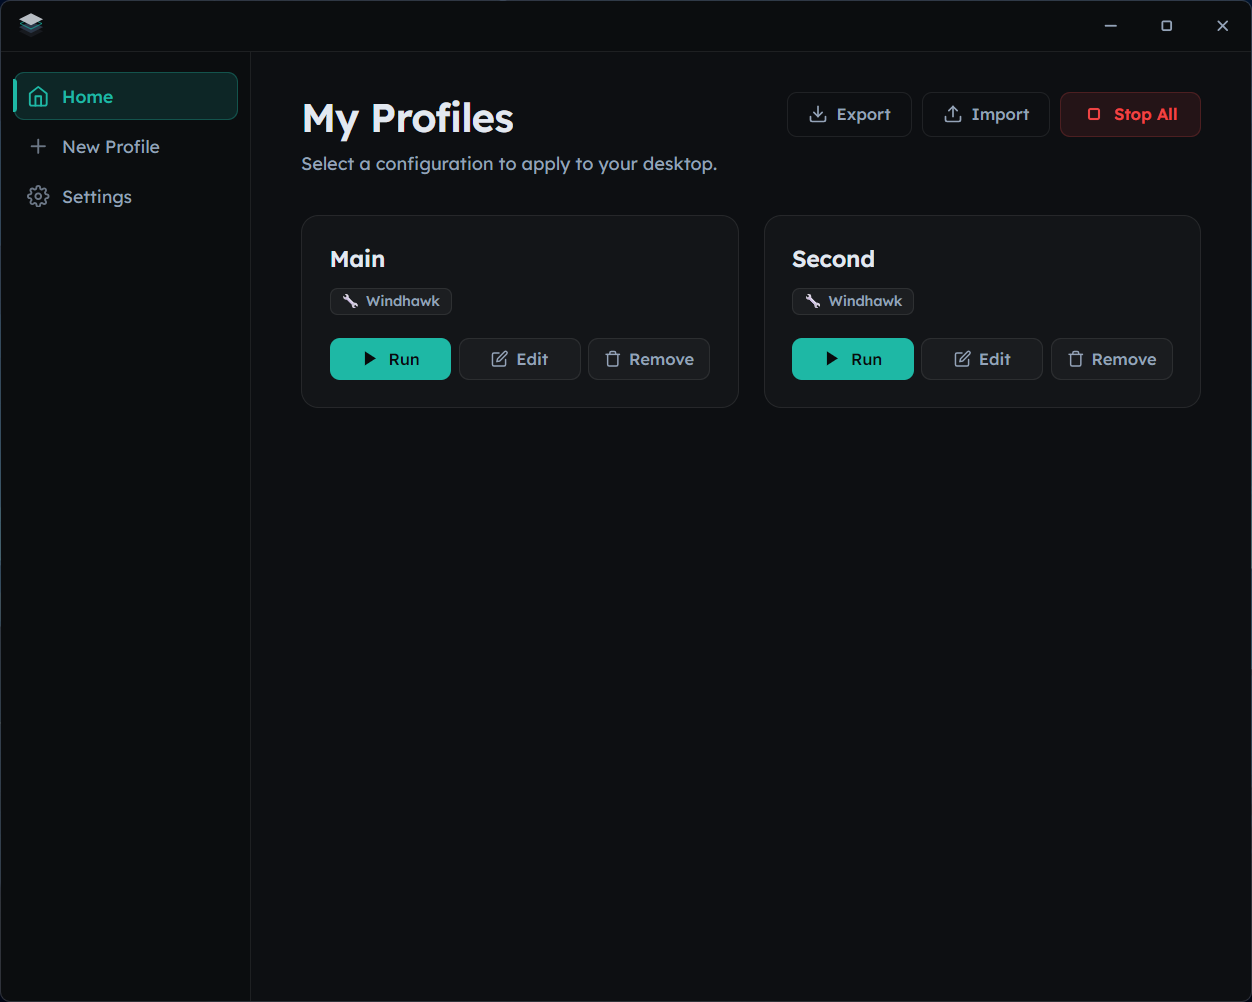
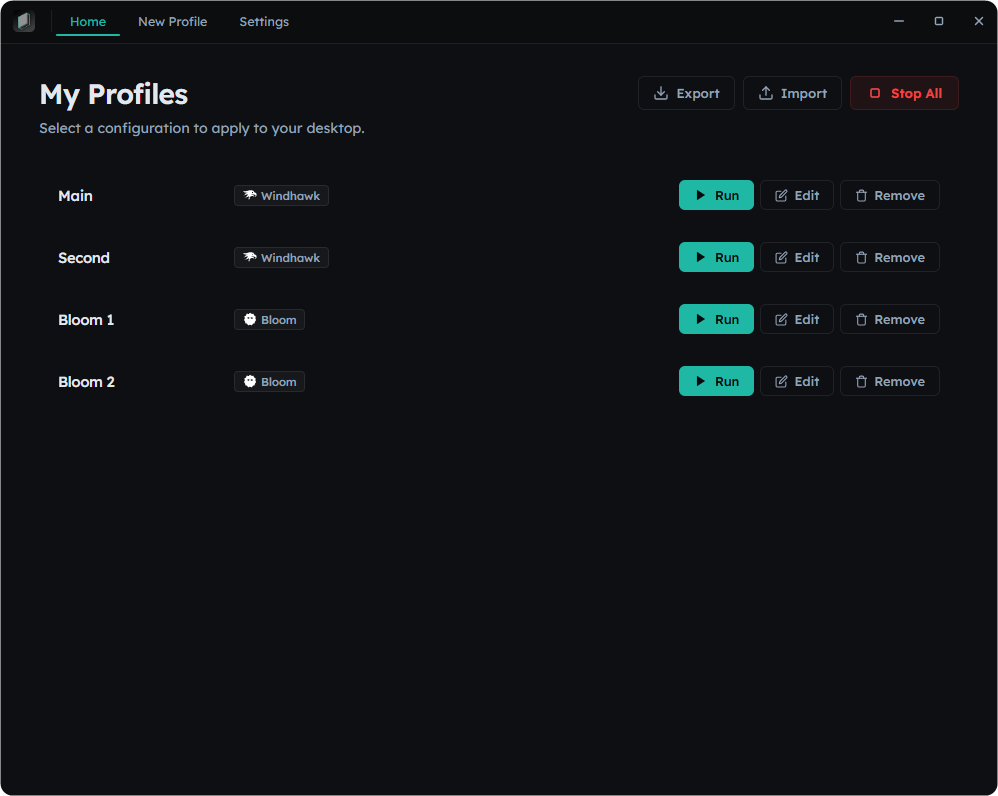
Update main interface screenshot with rounded corners

diff --git a/docs/index.html b/docs/index.html
@@ -56,7 +56,7 @@
         <a href="docs/index.html" class="btn btn--secondary btn--large">Read the Docs</a>
       </div>
       <p class="hero__info animate animate--delay-3">Windows 11 x64 &middot; MSI installer &middot; Auto-updates</p>
-      <div class="hero__screenshot animate animate--delay-4"><img src="MainPageScreenShot.png?v=2" alt="Kalam main interface screenshot" /></div>
+      <div class="hero__screenshot animate animate--delay-4"><img src="MainPageScreenShot.png?v=3" alt="Kalam main interface screenshot" /></div>
     </div>
   </section>
 
@@ -239,7 +239,7 @@
         <li><a href="https://github.com/Comp-Tech-Guy/Kalam" target="_blank" rel="noopener" class="footer__link">GitHub</a></li>
         <li><a href="docs/index.html" class="footer__link">Documentation</a></li>
         <li><a href="https://github.com/Comp-Tech-Guy/Kalam/blob/main/PRIVACY.md" target="_blank" rel="noopener" class="footer__link">Privacy Policy</a></li>
-        <li><span class="footer__text">v0.1.0</span></li>
+        <li><span class="footer__text">v1.0.0</span></li>
       </ul>
       <p class="footer__text">Built with Tauri + React + Python</p>
     </div>
